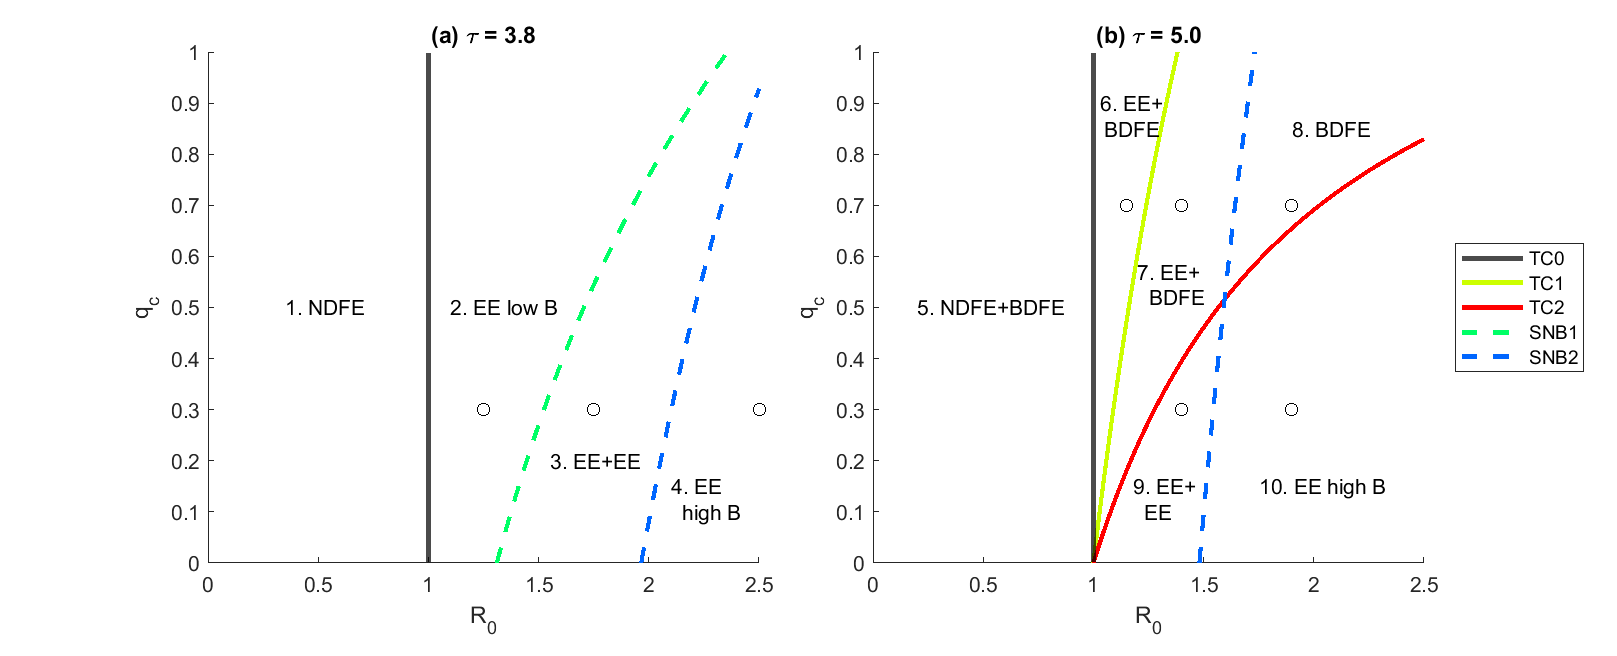
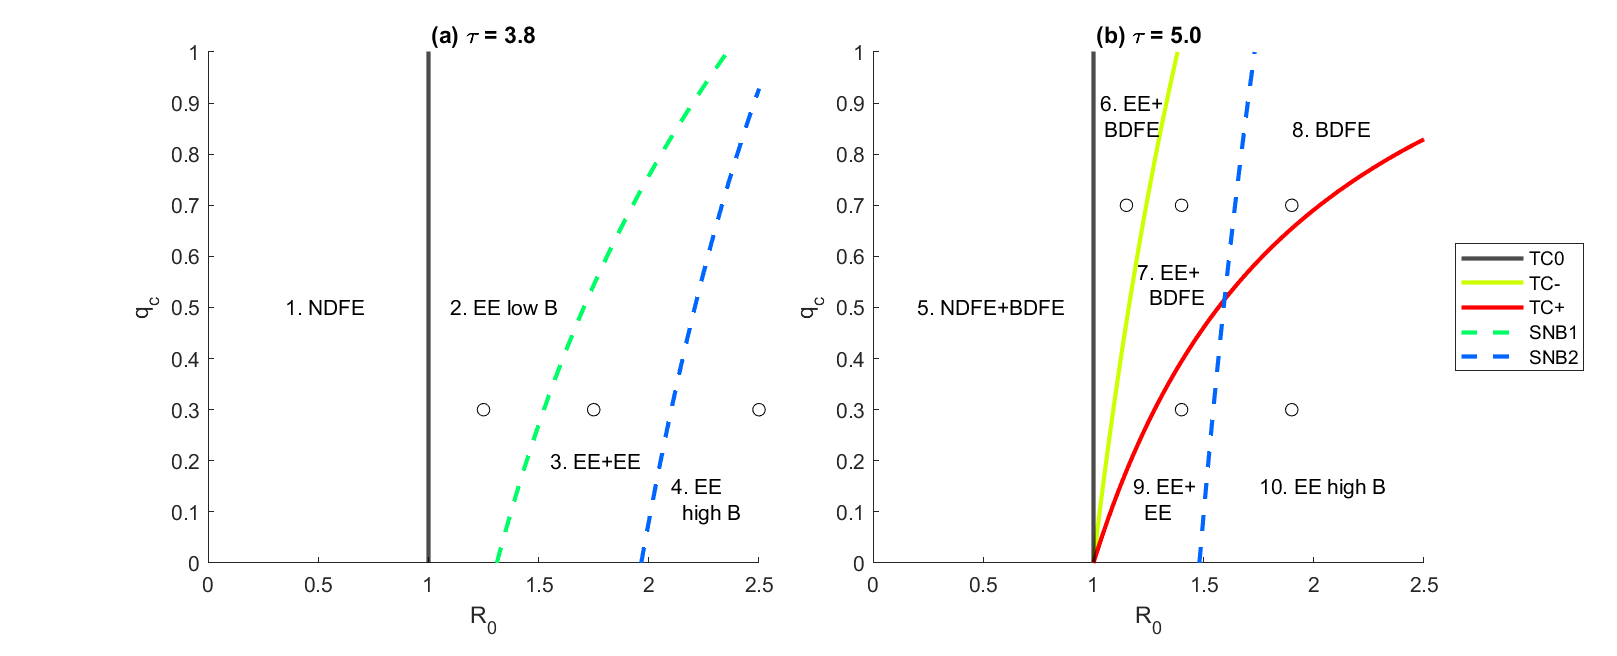
Minor plot change

diff --git a/bifurcation_plot.m b/bifurcation_plot.m
@@ -127,8 +127,8 @@ for iCase = 1:nCases
     xline(1, 'k-', 'LineWidth', 2, 'DisplayName', 'TC0')
     if Tau > 4
         % If Tau > 4 plot the transcritical bifurcations of BDFE and EE (and an empty SNB1 curve for the legend) 
-        plot(R0(ind), qminus(ind), 'color', cols(2, :), 'LineWidth', 2, 'DisplayName', 'TC1')
-        plot(R0(ind), qplus(ind), 'color', cols(1, :), 'LineWidth', 2, 'DisplayName', 'TC2')
+        plot(R0(ind), qminus(ind), 'color', cols(2, :), 'LineWidth', 2, 'DisplayName', 'TC-')
+        plot(R0(ind), qplus(ind), 'color', cols(1, :), 'LineWidth', 2, 'DisplayName', 'TC+')
         plot(nan, nan, 'color', cols(3, :), 'LineWidth', 2, 'LineStyle', '--', 'DisplayName', 'SNB1')
         lgd = legend('Location', 'eastoutside');
     else
